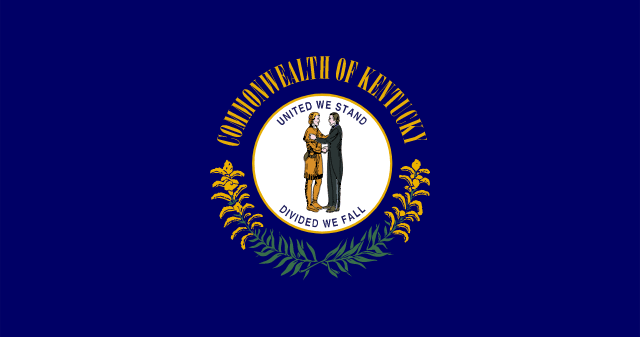
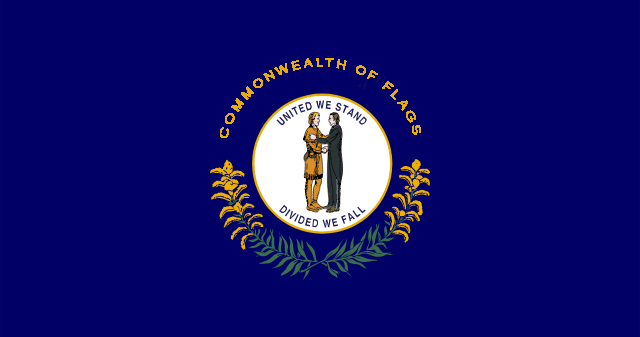
Styling Fixes
- Updated all US state flags with name on them to hide answer.
- Responsiveness tweaks
- Menu buttons upgraded with icons

Changed region(s): [[0.3438, 0.1484, 0.6875, 0.4451]]

diff --git a/index.html b/index.html
@@ -3,14 +3,17 @@
    <head>
       <meta charset="UTF-8" />
       <meta name="viewport" content="width=device-width, initial-scale=1.0" />
+      <link rel="stylesheet" href="https://cdnjs.cloudflare.com/ajax/libs/font-awesome/5.15.3/css/all.min.css" />
       <link rel="stylesheet" href="styles.css" />
       <title>FlagGuessr - Know your flags!</title>
       <link rel="icon" type="image/x-icon" href="/images/favicon.ico" />
    </head>
    <body>
       <div class="container">
-         <h1 id="title">FlagGuessr</h1>
+        <div class="textcontainer">
+          <h1 id="title">FlagGuessr</h1>
           <h3 id="tagline">Test your knowledge of flags from around the world with FlagGuessr – a fun and addictive game that challenges you to guess the country name from its flag!</h3>
+        </div>
          <div id="flag-container" style="display: none">
             <img class="flag-img" alt="Flag" />
          </div>
@@ -43,6 +46,9 @@
               <!-- Normal Mode Card -->
               <div class="card" id="normal-card">
                 <div class="card-content">
+                  <div class="card-image">
+                    <i class="fas fa-solid fa-globe" style="color: #b4b4b4;"></i>
+                  </div>
                   <div class="card-info-wrapper">
                     <div class="card-info">
                       <div class="card-info-title">
@@ -57,6 +63,9 @@
               <!-- Countdown Mode Card -->
               <div class="card" id="countdown-card">
                 <div class="card-content">
+                  <div class="card-image">
+                    <i class="fas fa-solid fa-clock" style="color: #b4b4b4;"></i>
+                  </div>
                   <div class="card-info-wrapper">
                     <div class="card-info">
                       <div class="card-info-title">
@@ -71,6 +80,9 @@
               <!-- Hard Mode Card -->
               <div class="card" id="hard-card">
                 <div class="card-content">
+                  <div class="card-image">
+                    <i class="fas fa-solid fa-bomb" style="color: #b4b4b4;"></i>
+                  </div>
                   <div class="card-info-wrapper">
                     <div class="card-info">
                       <div class="card-info-title">
@@ -85,6 +97,9 @@
               <!-- Capital Mode Card -->
               <div class="card" id="capital-card">
                 <div class="card-content">
+                  <div class="card-image">
+                    <i class="fas fa-solid fa-city" style="color: #b4b4b4;"></i>
+                  </div>
                   <div class="card-info-wrapper">
                     <div class="card-info">
                       <div class="card-info-title">
@@ -99,6 +114,9 @@
               <!-- US States Mode Card -->
               <div class="card" id="usstates-card">
                 <div class="card-content">
+                  <div class="card-image">
+                    <i class="fas fa-solid fa-flag-usa" style="color: #b4b4b4;"></i>
+                  </div>
                   <div class="card-info-wrapper">
                     <div class="card-info">
                       <div class="card-info-title">
@@ -113,6 +131,9 @@
               <!-- Credits Card -->
               <div class="card" id="creditscard">
                 <div class="card-content">
+                  <div class="card-image">
+                  <i class="fas fa-solid fa-hammer" style="color: #b4b4b4;"></i>
+                  </div>
                   <div class="card-info-wrapper">
                     <div class="card-info">
                       <div class="card-info-title">
@@ -125,8 +146,6 @@
               </div>
             </div>
          </div>
-      </div>
-      <h4></h4>
       </div>
       <script src="script.js"></script>
    </body>

diff --git a/styles.css b/styles.css
@@ -19,11 +19,16 @@ textarea:focus {
   margin: 0 auto;
 }
 
-.container > h1 {
+.textcontainer {
+  width: 90%;
+  margin: 0 auto;
+}
+
+.textcontainer > h1 {
   text-align: left;
 }
 
-.container > h3 {
+.textcontainer > h3 {
   text-align: left;
   padding-top: 10px;
 }
@@ -83,7 +88,6 @@ button:focus {
 .info-container {
   padding-bottom: 20px;
   justify-content: center;
-  align-items: center;
 }
 
 #country-input {
@@ -280,14 +284,19 @@ i {
 
 /* -- ↓ ↓ ↓ some responsiveness ↓ ↓ ↓ -- */
 
-@media (max-width: 1000px) {
+@media (max-width: 760px) {
   body {
     align-items: flex-start;
     overflow: auto;
   }
 
+  .container {
+    padding: 10%;
+    overflow: auto;
+  }
+
   #modeselect {
-    max-width: 1000px;
+    max-width: 760px;
     padding: 10px 0px;
   }
 
@@ -332,24 +341,6 @@ i {
   .card {
     width: 100%;
   }
-}
-
-/* -- ↓ ↓ ↓ YouTube link styles ↓ ↓ ↓ -- */
-
-#youtube-link {
-  bottom: 10px;
-}
-
-#youtube-link > i {
-  color: rgb(239, 83, 80);
-}
-
-#source-link {
-  bottom: 60px;
-}
-
-#source-link > i {
-  color: rgb(94, 106, 210);
 }
 
 .link {
